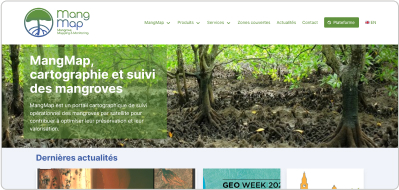
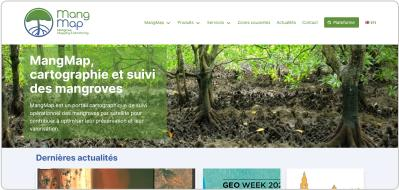
feat: add memo, improve aktivisda and compress images

diff --git a/README.md b/README.md
@@ -1,10 +1,18 @@
 # Telescoop website
 
-## dev
+## Développer
 
-develop locally : `yarn dev`
+* Lancer 11ty
+```
+yarn dev
+```
 
-for production : `yarn build`
+* Compiler le `sass`
+```
+yarn watch:sass
+```
+
+
 
 ## Infos
 
